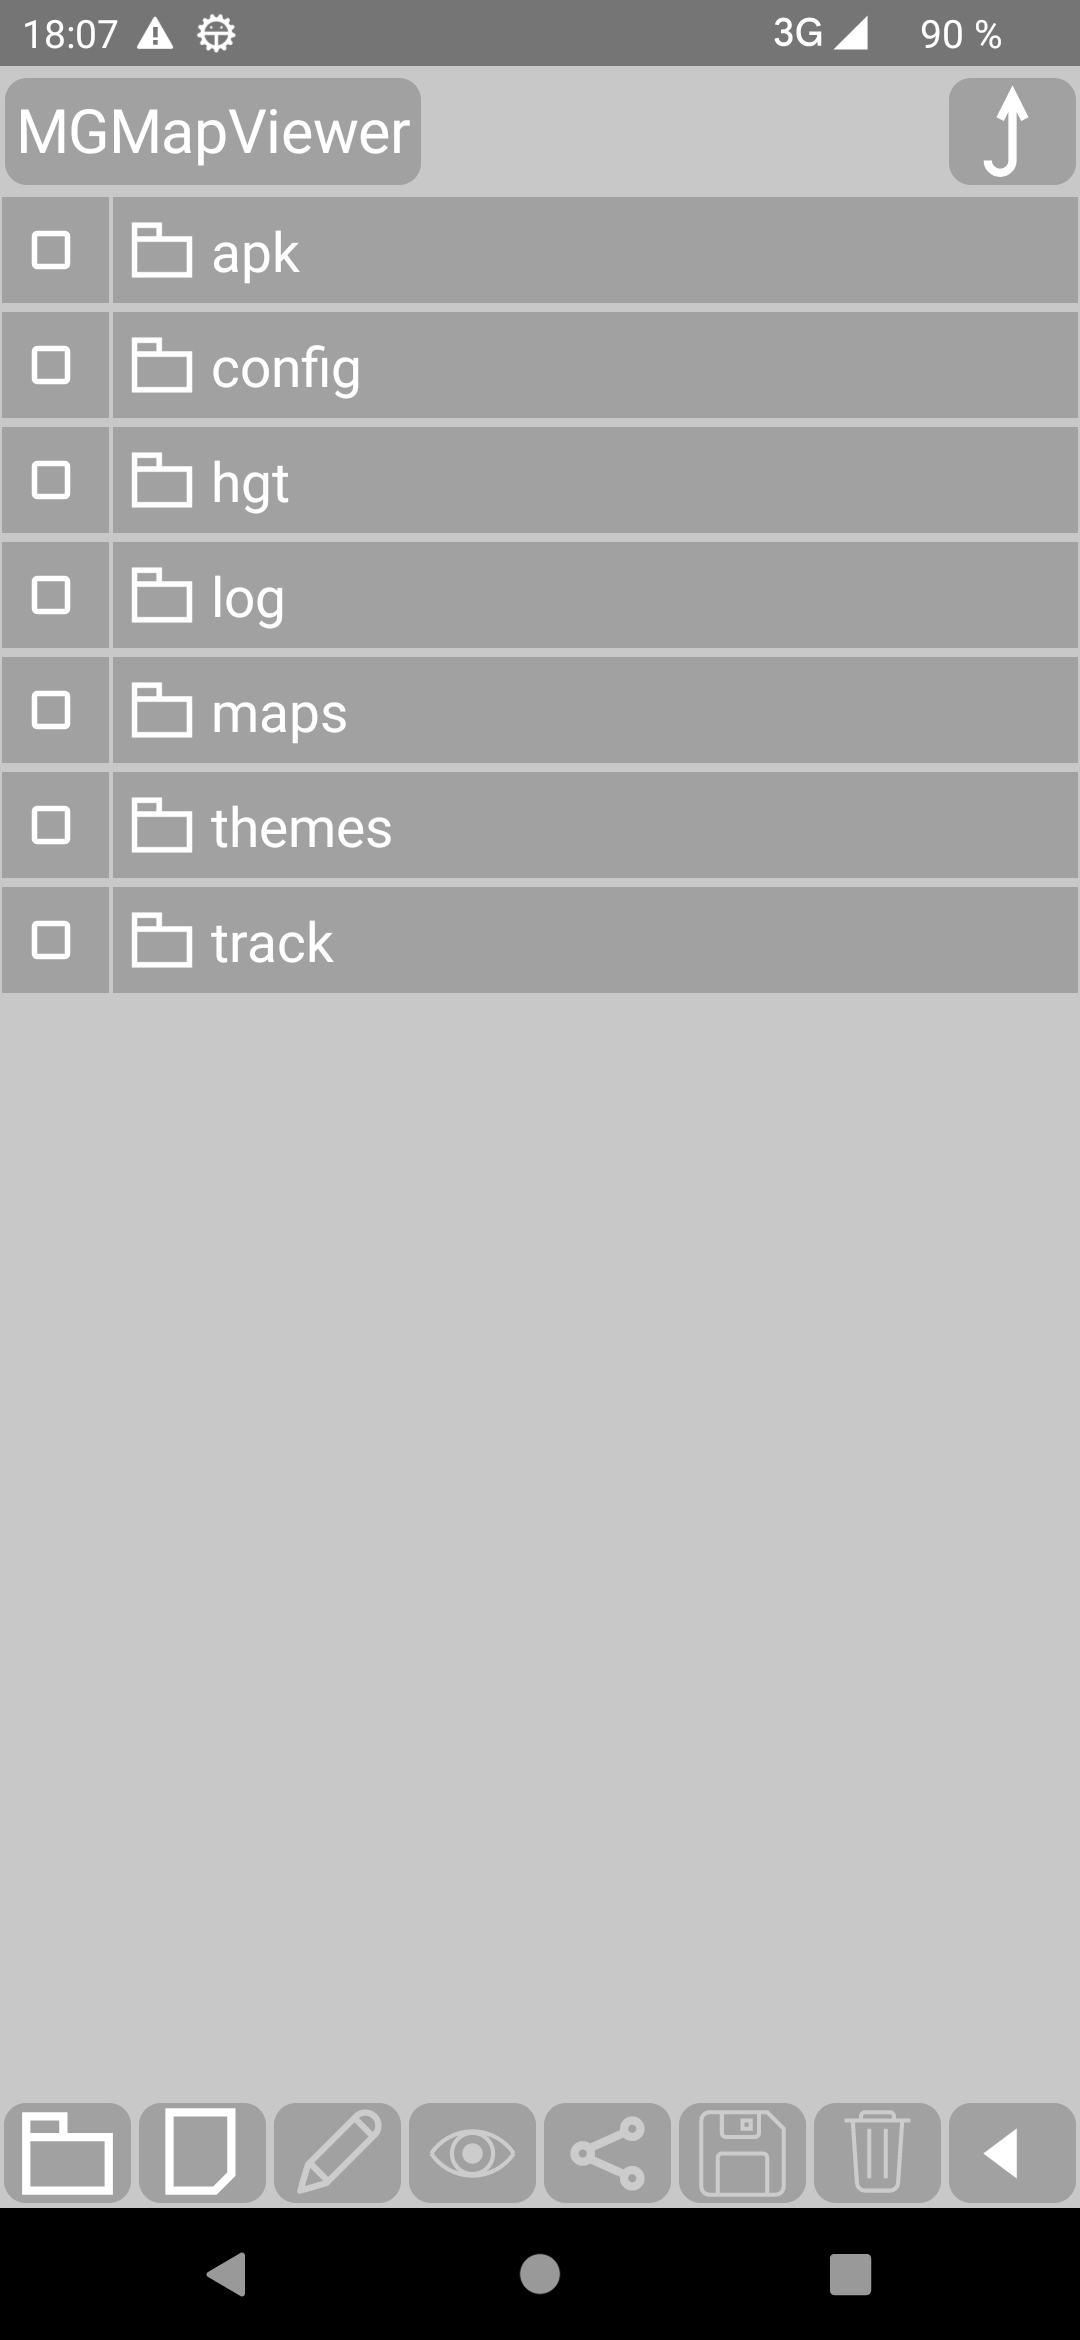
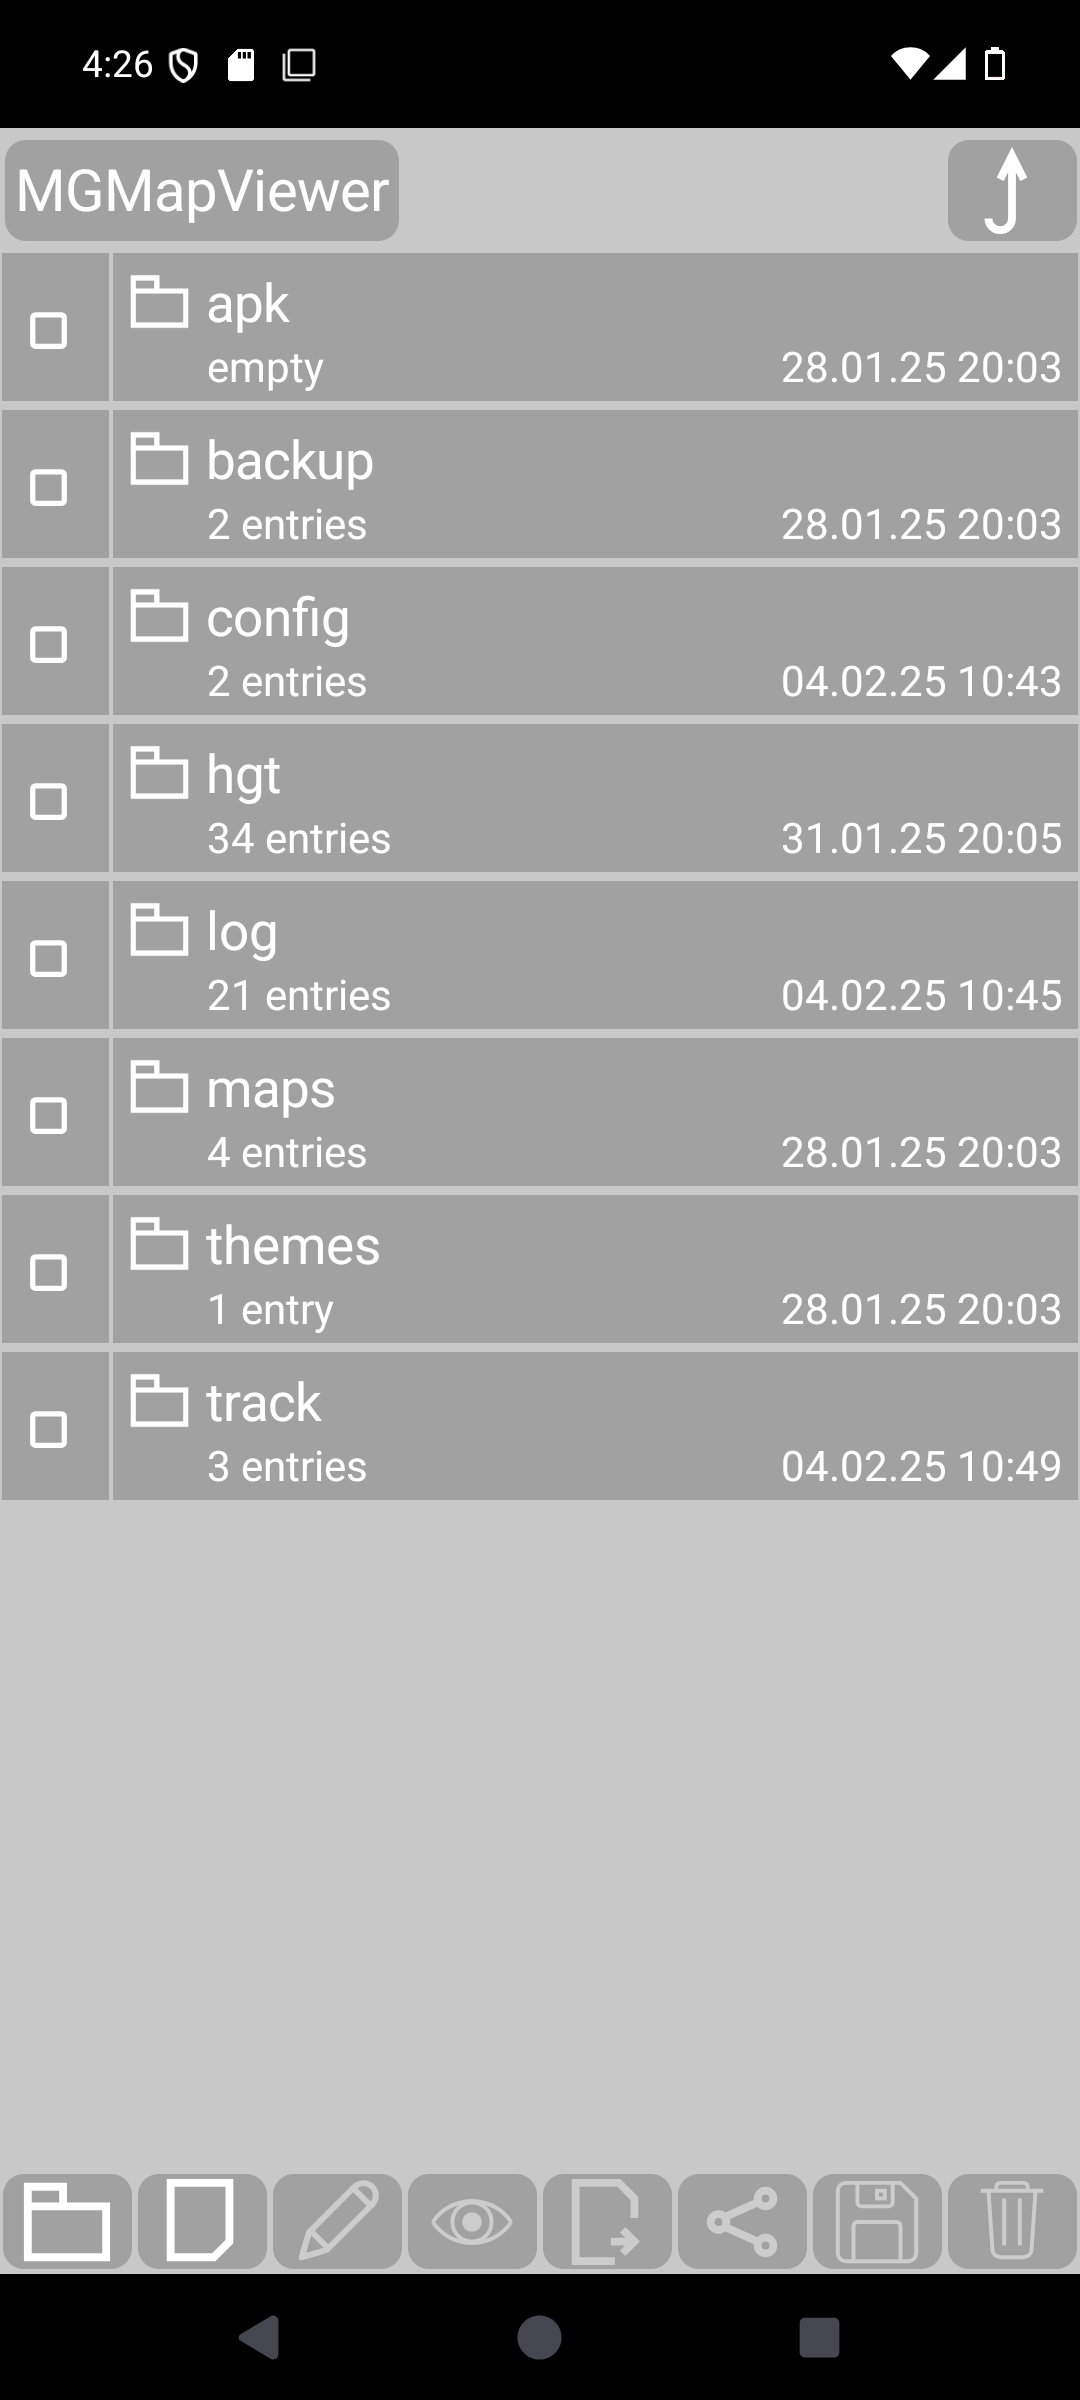
docs for filmgr

diff --git a/docs/Features/FurtherFeatures/FileManager/filemanager.md b/docs/Features/FurtherFeatures/FileManager/filemanager.md
@@ -38,7 +38,7 @@ The quick controls provide follwoing functions:
   </tr>
   <tr>
     <td><img src="../../../icons/edit2.svg" width="24"/></td> 
-    <td>one file or directory is seleceted</td>
+    <td>one entry is seleceted</td>
     <td>edit the file or directory name</td>	
   </tr>
   <tr>
@@ -49,24 +49,24 @@ The quick controls provide follwoing functions:
   
   
   <tr>
+    <td><img src="../../../icons/file_mgr_move.svg" width="24"/></td> 
+    <td>one or more entries are selected</td>
+    <td>move file(s) and/or directory/directories</td>	
+  </tr>
+  <tr>
     <td><img src="../../../icons/share.svg" width="24"/></td> 
     <td>one or more files are selected</td>
-    <td>share the selected files</td>	
+    <td>share the selected files/directories</td>	
   </tr>
   <tr>
     <td><img src="../../../icons/save.svg" width="24"/></td> 
-    <td>MGMapViewer was selected as a share target</td>
-    <td>save the (via share received) files to the current directory (so first navigate to the desired target directory, then use the save)</td>	
+    <td>uncompleted move or share operation</td>
+    <td>save the (moved or via share received) content to the current directory <br/> <b>Hint</b>: first navigate to the desired target directory, then use the save button</td>	
   </tr>
   <tr>
     <td><img src="../../../icons/delete.svg" width="24"/></td> 
-    <td>one or more files and empty directories are selected</td>
+    <td>one or more entries are selected</td>
     <td>delete the selected files and directories</td>	
-  </tr>
-  <tr>
-    <td><img src="../../../icons/back.svg" width="24"/></td> 
-    <td>always</td>
-    <td>go back to the previous activity</td>	
   </tr>
 </table>
 

diff --git a/docs/Features/FurtherFeatures/RoutingHints/hints.md b/docs/Features/FurtherFeatures/RoutingHints/hints.md
@@ -47,7 +47,15 @@ Additional rules
 - If the measured distance to the route is above the THRESHOLD_MEDIUM (40m), then you get up to three messages:
   - "Achtung Abstand \<nn> Meter"
   - "Achtung Achtung Abstand \<nn> Meter"
-  - "Achtung Achtung Achtung Abstand \<nn> Meter"  
+  - "Track verlassen"
   If there are further gps points with a distance more the THRESHOLD_MEDIUM, you don't get any further information.
+- A gps point with distance < THRESHOLD_MEDIUM after a gps point with distance > THRESHOLD_MEDIUM results in a "on track" message.
+- A gps point goves also an "on track" message, if last given instruction is more than 500m back on the route.
+- A gps point with distance < THRESHOLD_MEDIUM to the final point of the route give the message "Ziel erreicht"
+
+#### Minimal turning instruction
+
+Via the routing settings the "minimal turning instructions" can be switched on. In this mode only the "on track" message and the distance warnings are
+given. 
 
 <small><small>[Back to Index](../../../index.md)</small></small>
